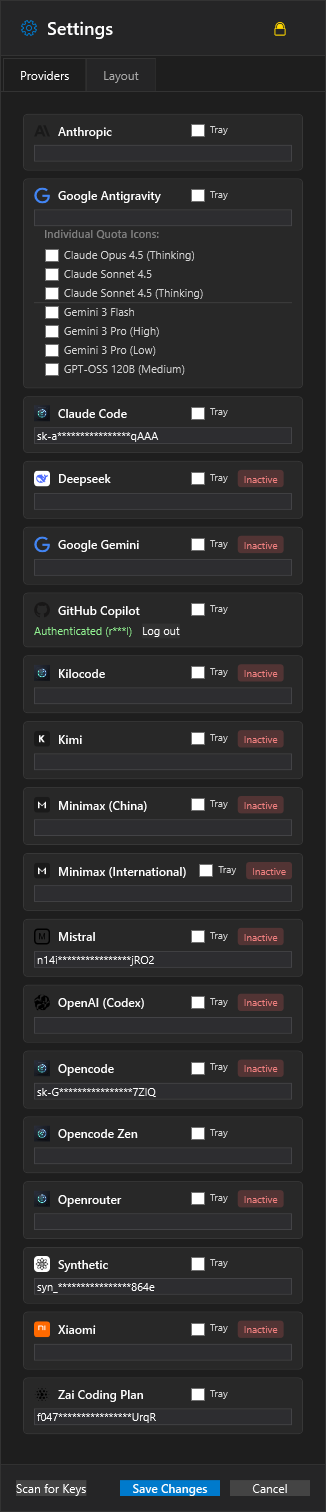
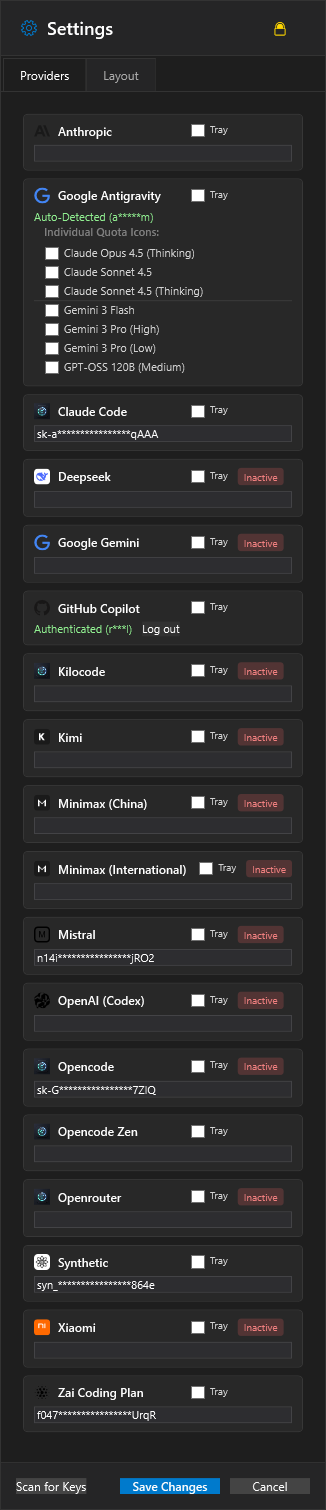
fix(settings): improve Antigravity auth display and update screenshot

diff --git a/AIConsumptionTracker.UI/SettingsWindow.xaml.cs b/AIConsumptionTracker.UI/SettingsWindow.xaml.cs
@@ -257,6 +257,32 @@ namespace AIConsumptionTracker.UI
                     Grid.SetColumn(authBox, 0);
                     keyPanel.Children.Add(authBox);
                 }
+                else if (config.ProviderId == "antigravity")
+                {
+                    // Antigravity: Local Process Auto-Detection (No Key Input)
+                    var statusPanel = new StackPanel { Orientation = Orientation.Horizontal };
+                    
+                    bool isConnected = usage != null && usage.IsAvailable;
+                    string accountInfo = usage?.AccountName ?? "Unknown";
+
+                    if ((_prefs.IsPrivacyMode || _isScreenshotMode) && !string.IsNullOrEmpty(accountInfo) && accountInfo != "Unknown")
+                    {
+                        accountInfo = PrivacyHelper.MaskString(accountInfo);
+                    }
+
+                    var statusText = new TextBlock
+                    {
+                        Text = isConnected ? $"Auto-Detected ({accountInfo})" : "Searching for local process...",
+                        Foreground = isConnected ? Brushes.LightGreen : Brushes.Gray,
+                        VerticalAlignment = VerticalAlignment.Center,
+                        FontSize = 11,
+                        FontStyle = isConnected ? FontStyles.Normal : FontStyles.Italic
+                    };
+
+                    statusPanel.Children.Add(statusText);
+                    Grid.SetColumn(statusPanel, 0);
+                    keyPanel.Children.Add(statusPanel);
+                }
                 else
                 {
                     // Standard API Key Input (no label)
